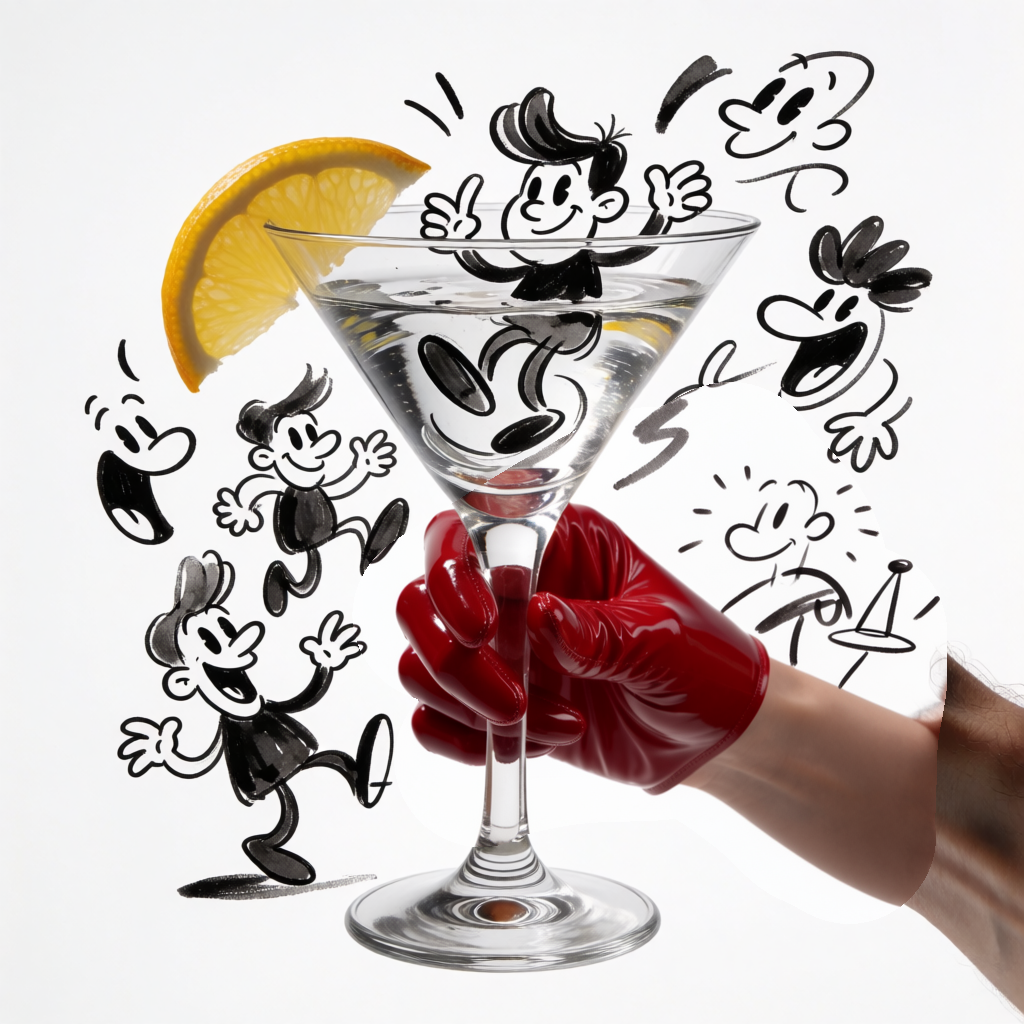
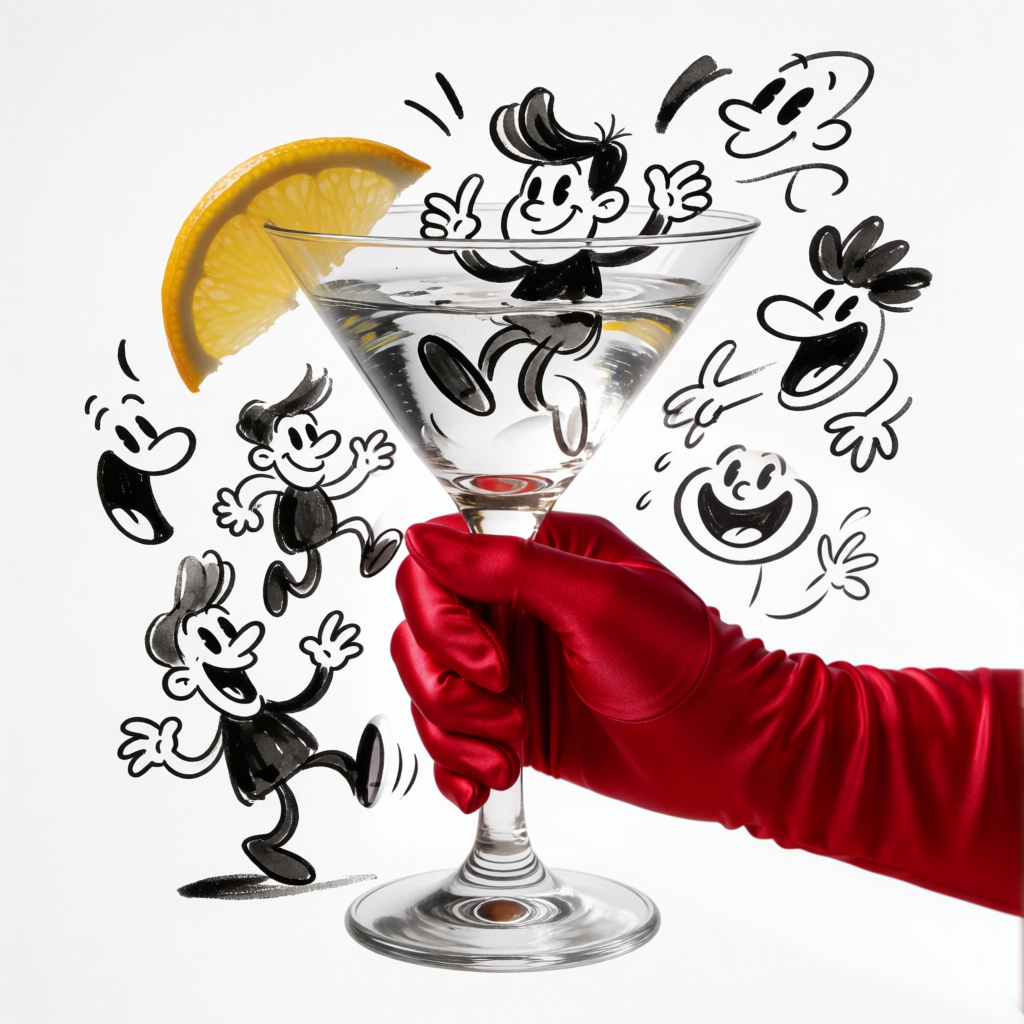
Replace MOSS example with the selected full-glove GPU result
Cover the complete hand, wrist and forearm with a wider mask softened
at radius 10 pixels. Use seed 42 and the native decoder's Gaussian blend
with overlap 17. Update the embedded workflow, standalone JSON, mask,
inverse-alpha source, preview and documentation together.

The result pixels match the selected A100 inference exactly. Validation:
25 MOSS tests passed; Ruff passed; native prompt and frontend widget
validation passed. No sampler code changes.

Changed region(s): [[0.3438, 0.375, 1.0, 1.0]]

diff --git a/tests/test_moss.py b/tests/test_moss.py
@@ -169,7 +169,8 @@ def test_example_follows_repository_conventions() -> None:
     assert graph["7"]["class_type"] == "LanPaint_MOSSImageEncode"
     assert graph["12"]["class_type"] == "LanPaint_KSamplerAdvanced"
     assert graph["13"]["class_type"] == "LanPaint_ImageDecode"
-    assert graph["13"]["inputs"]["blend_overlap"] == 1
+    assert graph["13"]["inputs"]["blend_overlap"] == 17
+    assert graph["12"]["inputs"]["noise_seed"] == 42
     assert graph["11"]["inputs"]["single_layers"] == "22"
     for node in graph.values():
         for value in node["inputs"].values():

diff --git a/README.md b/README.md
@@ -453,9 +453,9 @@ Load the workflow JSON or drag the output PNG into ComfyUI. Select `Original_No_
 
 `LanPaint MOSS Image Encode` requires RGB source dimensions divisible by 16. It conservatively pools the pixel mask into native Flux2 `[B,128,H/16,W/16]` latents so thin edits survive. `source_fill=neutral` fills the masked source with gray; `source` retains it for source-conditioned edits. Optional dilation is measured in source pixels. Negative text is empty, with single block 22 skipped only on the negative branch.
 
-Starting settings: Euler/simple, 50 steps, CFG 3, Image First, 3 thinking steps, step size 0.1, lambda 5. The supplied Image Decode uses `blend_overlap=1` for a hard composite that preserves outside-mask source pixels. Larger values use the existing Gaussian boundary blend and can change pixels around the mask. Generous masks help avoid seams and partially edited objects.
+Example settings: seed 42, Euler/simple, 50 steps, CFG 3, Image First, 3 thinking steps, step size 0.1, lambda 5. The mask covers the complete hand, wrist, and forearm through the image edge, with Gaussian softening of radius 10 pixels. The supplied Image Decode uses `blend_overlap=17` for the existing Gaussian boundary blend. This blend can change pixels around the mask; use `blend_overlap=1` and a binary mask when a hard composite is needed. A wider mask avoids stopping the glove halfway across the hand or wrist.
 
-The illustration reuses Example 28's source and mask. Its output uses the existing A100 MOSS raw inference, recomposited with the standard decoder's hard-mask behavior. The workflow was repackaged, not freshly sampled on a GPU; identical regeneration is not guaranteed. Earlier integration validation covered 13 real-image functional cases, including thin/full masks, two photo replacements, Prompt First at CFG 1, and outpainting. These establish functional support, not a quality benchmark.
+The illustration reuses Example 28's source with a new, broader mask. This output was freshly generated on one A100 80 GB using this contribution's native MOSS encoder, KSampler Advanced, and Image Decode nodes, then selected from six trial renders. The downloadable PNG retains the selected result's exact pixels and embeds the matching prompt and workflow. The separate grayscale mask and inverse-alpha masked source carry the same softened mask. Identical regeneration across runtimes is not guaranteed. Earlier integration validation also covered 13 real-image functional cases, including thin/full masks, two photo replacements, Prompt First at CFG 1, and outpainting. These establish functional support, not a quality benchmark.
 
 ### Example Krea2: InPaint(LanPaint K Sampler, 3 steps of thinking)
 We are excited to announce that LanPaint now supports inpainting with the Krea2 Turbo text-to-image model.
